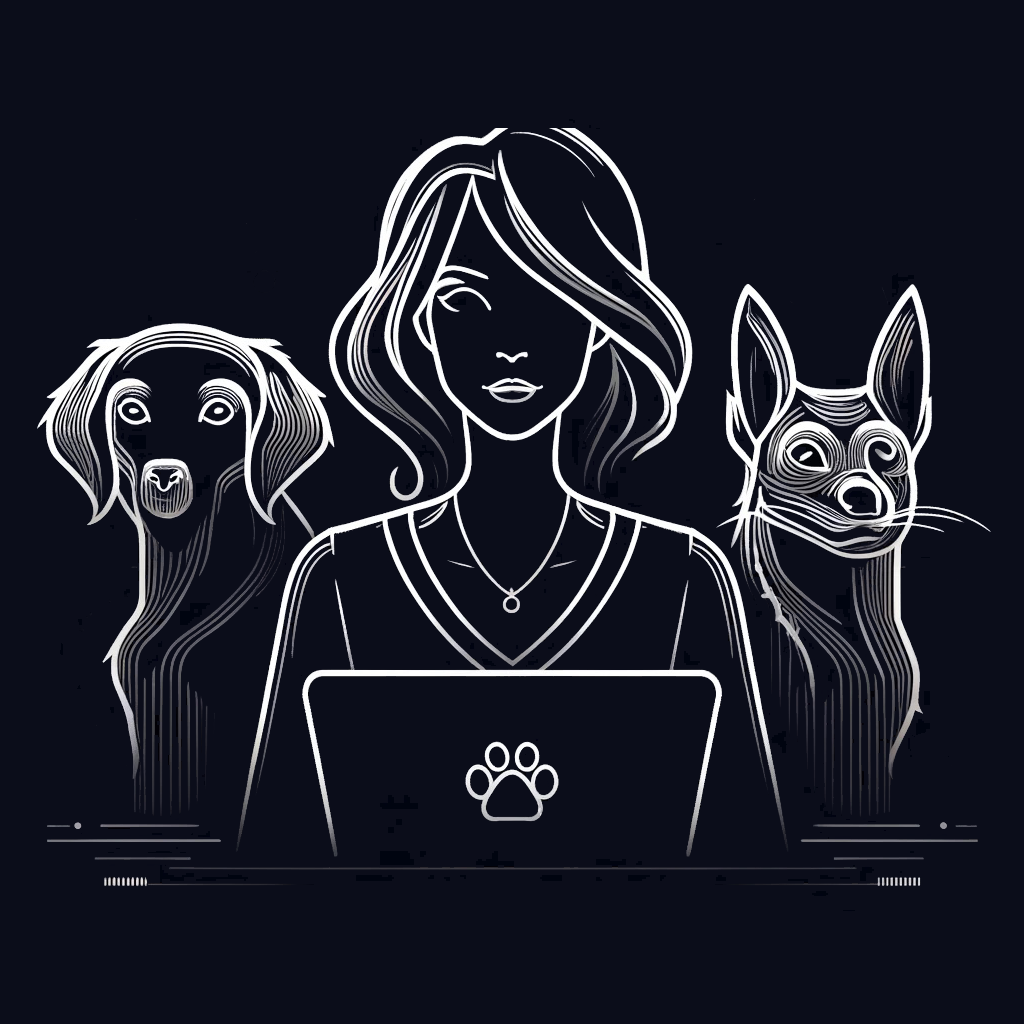
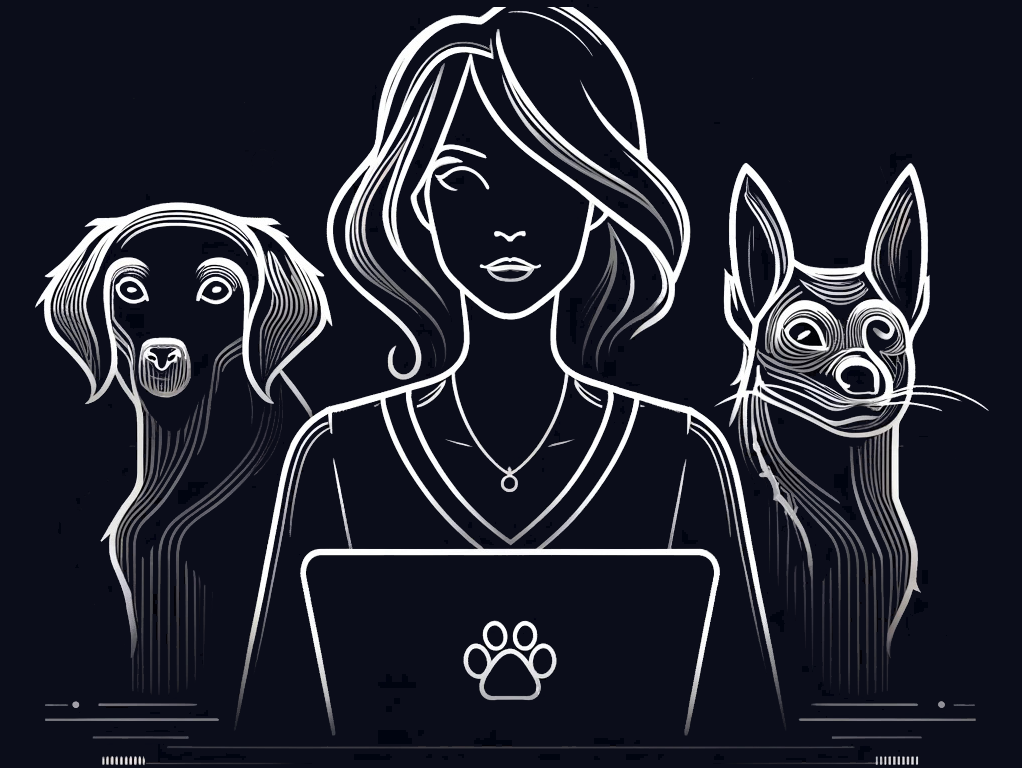
redesigning the about me page

diff --git a/index.html b/index.html
@@ -17,19 +17,18 @@
         <div class="hamburgerMenu"></div>
     </div>
     <div class="separator"></div>
-    <div class="aboutMeContainer">
-        <div class="sectionContainer" id="aboutMeSection">
-            <div class="decorLine"></div>
-            <div class="sectionTitle">ABOUT ME</div>
-            <div class="decorLine"></div>
-        </div>
+    <div class="aboutMeSection">
         <div class="programmerDogs">
             <img src="assets/ProgrammerDogs.png" alt="">
         </div>
-        <div class="aboutMe">
-            <div class="description">
-                Hi, I’m Allison! I’m an experienced Software Engineer, with a with a demonstrated history of working in the computer software industry, and a passion for creating innovative user experiences. Recent experience includes implementing AI/ML-driven features across the entire software stack. Frontend experience in React, TypeScript, Javascript, and HTML/CSS, and backend experience in C++, Python, Objective-C, and Java. 
-                In my free time, I enjoy rock climbing, hiking, and being outside with my two dogs, Koda and Indy. When I’m not outdoors you can usually find me curled up with a good book, watching a show, or working on a 3D print. 
+        <div class="aboutMeText">
+            <div class="cornerContainer">
+                <div class="description">
+                    <p>
+                    Hi, I’m Allison! I’m an experienced Software Engineer, with a with a demonstrated history of working in the computer software industry, and a passion for creating innovative user experiences. Recent experience includes implementing AI/ML-driven features across the entire software stack. Frontend experience in React, TypeScript, Javascript, and HTML/CSS, and backend experience in C++, Python, Objective-C, and Java. 
+                    In my free time, I enjoy rock climbing, hiking, and being outside with my two dogs, Koda and Indy. When I’m not outdoors you can usually find me curled up with a good book, watching a show, or working on a 3D print. 
+                    </p>
+                </div>
             </div>
         </div>
      </div>
@@ -165,6 +164,13 @@
                 </div>
             </div>
         </div>
+     </div>
+     <div class="separator"></div>
+     <div class="contactContainer">
+        <img src="assets/EmailIcon.svg" alt="email">
+        <img src="assets/PhoneIcon.svg" alt="phone">
+        <img src="assets/LinkedIn.svg" alt=linkedin">
+        <img src="assets/GithubIcon.svg" alt="github">
      </div>
 </body>
 </html>

diff --git a/style.css b/style.css
@@ -22,13 +22,13 @@
 
 .decorLine {
   border: 1px solid #BDC9D0;
-  width: 20vw;
+  width: 10vw;
   margin-top: 5vh;
 }
 
 .sectionTitle {
   text-align: center;
-  font-size: 1.75rem;
+  font-size: 2rem;
   padding-top: 5vh;
   padding-left: 5px;
   padding-right: 5px;
@@ -49,39 +49,48 @@
   background-color: #2A3058;
 }
 
-#aboutMeSection {
-  padding-top: 2vh;
-  height: 10vh;
-}
-
-.aboutMeContainer {
+.aboutMeSection {
   background-color: #0B0D1A;
   min-height: 100vh;
   overflow: hidden;
+  display: flex;
+  justify-content: center;
+  flex-wrap: wrap;
+  align-items: center;
+  padding-top: 5vh;
 }
 
 .programmerDogs {
-  display: flex;
-  justify-content: center;
-  padding-top: 3vh;
+  padding-right: 5vw;
+  padding-bottom: 10vh;
 }
 
 .programmerDogs img {
-  height: 400px;
+  height: 450px;
   opacity: 80%;
 }
 
-.aboutMe {
-  display: flex;
-  justify-content: center;
+.aboutMeText {
+  padding-bottom: 5vh;
 }
 
-.description {
+.cornerContainer {  
+  background:
+    linear-gradient(to right, white 2px, transparent 2px) 0 0,
+    linear-gradient(to left, white 2px, transparent 2px) 100% 100%,
+    linear-gradient(to bottom, white 2px, transparent 2px) 0 0,
+    linear-gradient(to top, white 2px, transparent 2px) 100% 100%;
+
+  background-repeat: no-repeat;
+  background-size: 150px 150px;
+}
+
+.description p {
+  width: 600px;
   text-align: center;
   line-height: 1.5;
-  padding-left: 3vw;
-  padding-right: 3vw;
-  padding-bottom: 3vh;
+  padding: 3vh;
+  font-size: 1.25em;
 }
 
 .resumeContainer {
@@ -142,4 +151,17 @@
   padding: 5px;
   border-radius: 5px;
   color: white;
+}
+
+.contactContainer {
+  min-height: 10vh;
+  background-color: #0B0D1A;
+  display: flex;
+  justify-content: center;
+}
+
+.contactContainer img {
+  height: 30px;
+  padding-top: 3vh;
+  padding-right: 10vw;
 }
